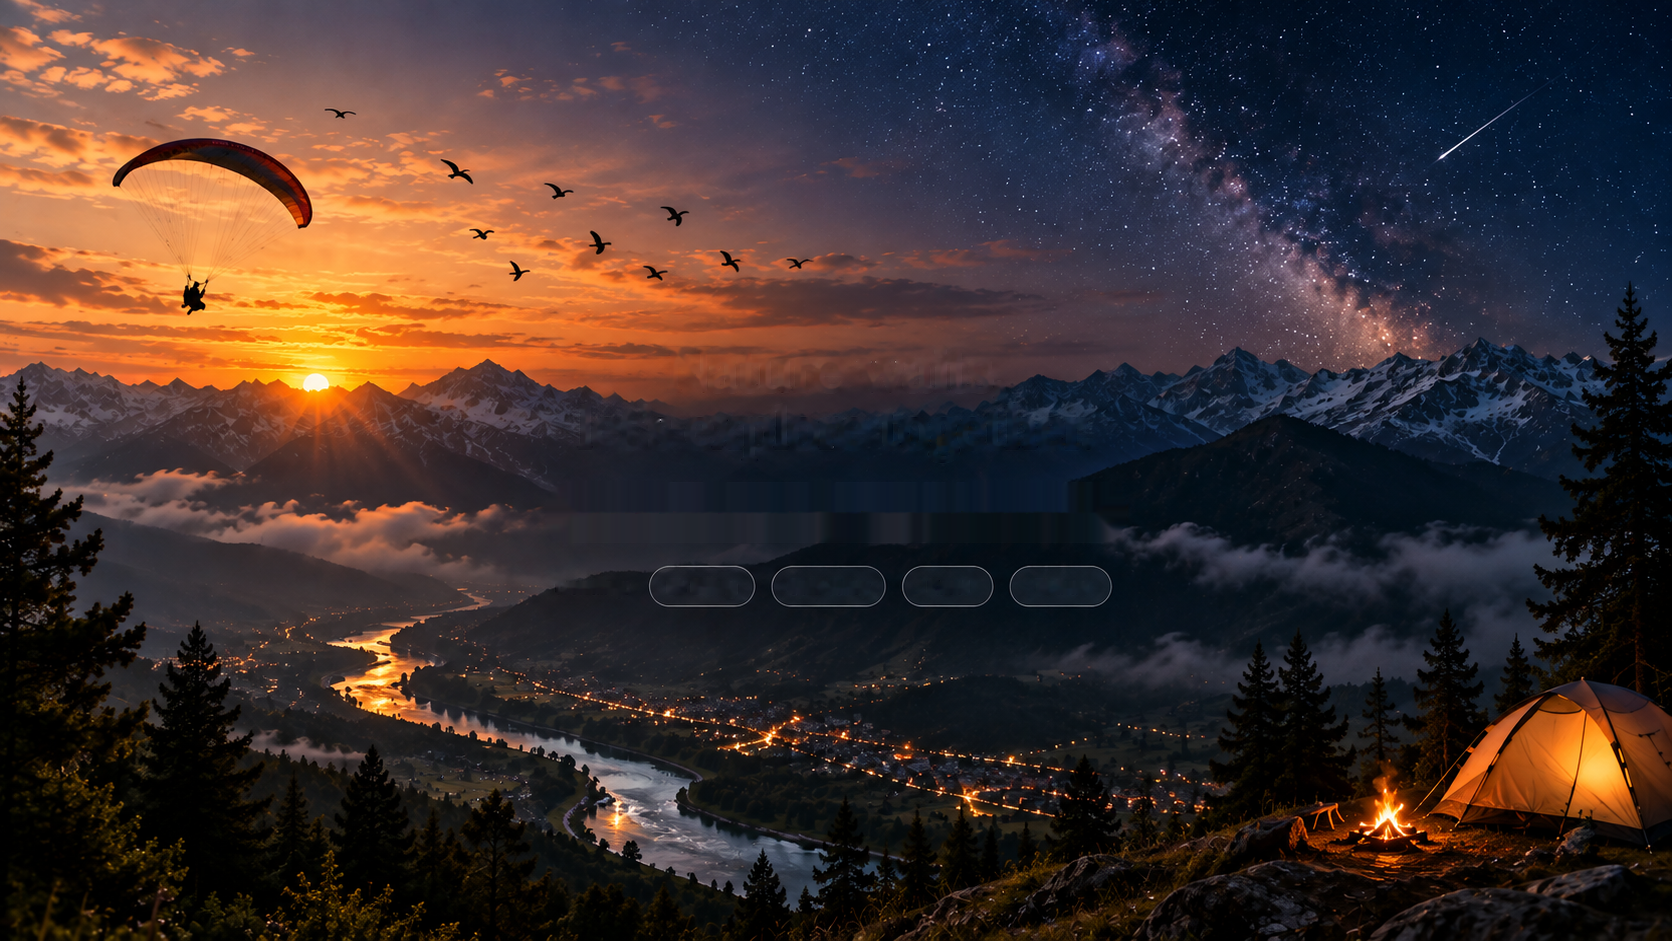
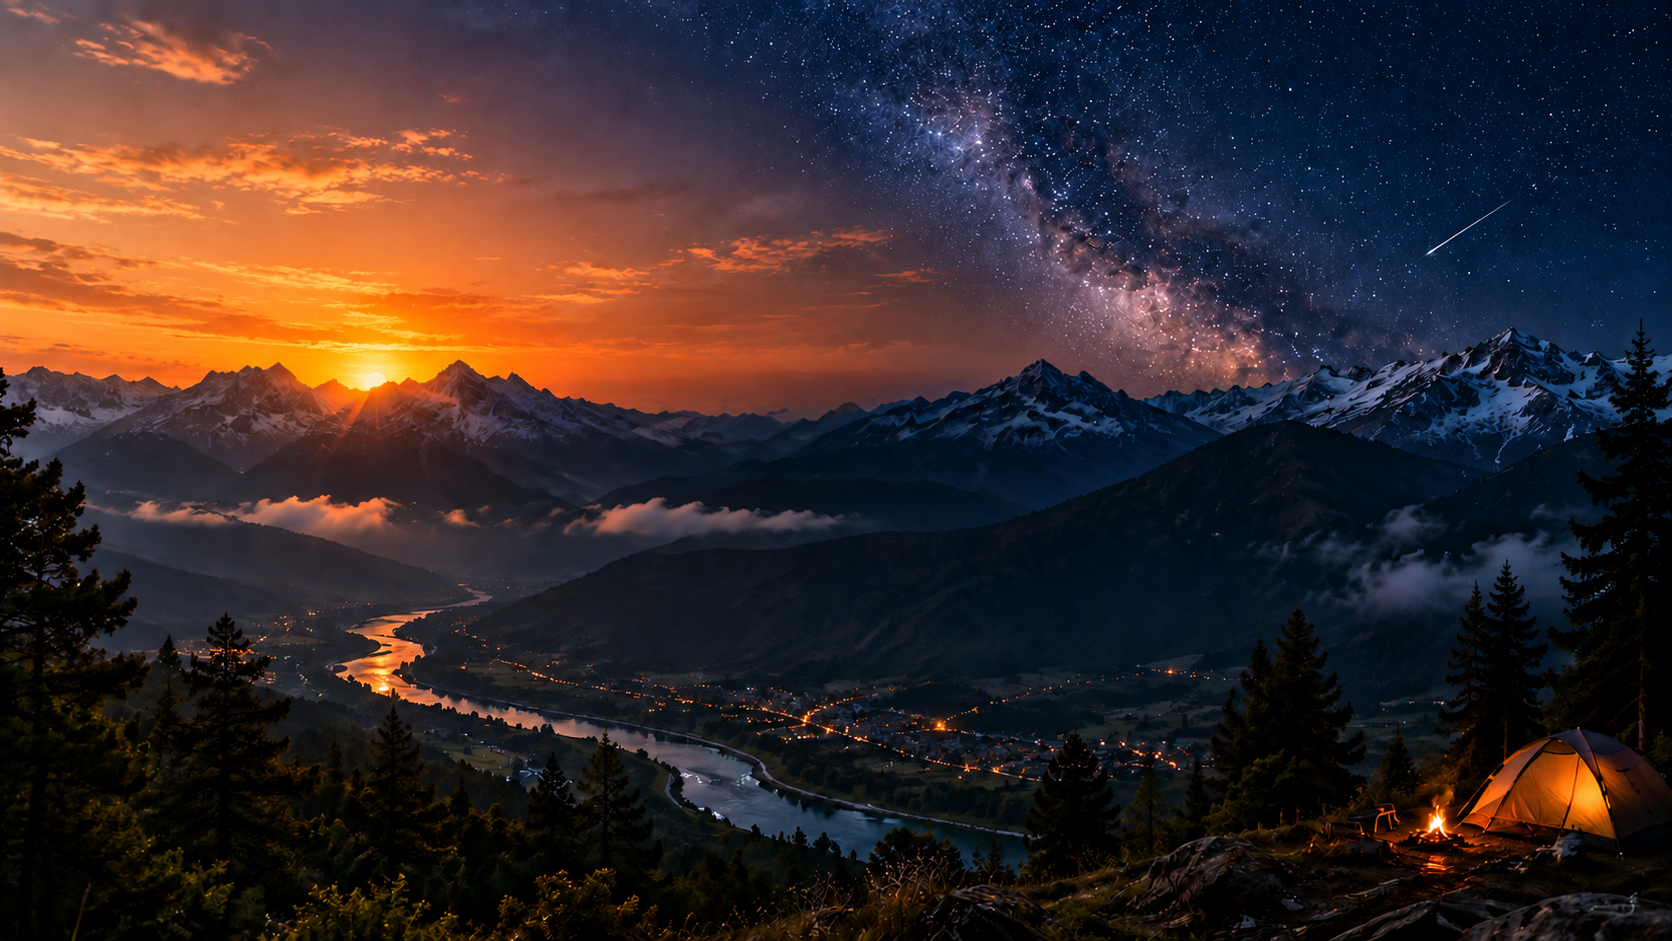
working travelling website code

diff --git a/src/pages/Home/Home.tsx b/src/pages/Home/Home.tsx
@@ -12,25 +12,41 @@ export function Home({ wishlist, onWishlist }: { wishlist: string[]; onWishlist:
   return <main>
       <section className="relative isolate min-h-[100svh] overflow-hidden bg-[#081a1d] text-[#f7f1df]">
         <style>{`
-          @keyframes heroBirdsFlight {
-            0% { transform: translate3d(-22vw, 6px, 0) scale(.72); opacity: 0; }
+          @keyframes heroBirdOne {
+            0% { transform: translate3d(-14vw, 8vh, 0) rotate(-4deg) scale(.72); opacity: 0; }
             8% { opacity: .92; }
-            48% { transform: translate3d(42vw, -28px, 0) scale(.88); opacity: .94; }
-            92% { opacity: .86; }
-            100% { transform: translate3d(118vw, 12px, 0) scale(1.02); opacity: 0; }
+            42% { transform: translate3d(38vw, -2vh, 0) rotate(2deg) scale(.86); }
+            72% { transform: translate3d(76vw, 8vh, 0) rotate(-2deg) scale(.95); }
+            92% { opacity: .9; }
+            100% { transform: translate3d(116vw, -5vh, 0) rotate(4deg) scale(1.05); opacity: 0; }
           }
-          @keyframes heroBirdsFlightReverse {
-            0% { transform: translate3d(118vw, 18px, 0) scale(.68) scaleX(-1); opacity: 0; }
-            10% { opacity: .8; }
-            50% { transform: translate3d(52vw, -32px, 0) scale(.82) scaleX(-1); opacity: .86; }
-            90% { opacity: .8; }
-            100% { transform: translate3d(-24vw, 4px, 0) scale(.96) scaleX(-1); opacity: 0; }
+          @keyframes heroBirdTwo {
+            0% { transform: translate3d(112vw, 20vh, 0) rotate(3deg) scale(.8) scaleX(-1); opacity: 0; }
+            10% { opacity: .82; }
+            45% { transform: translate3d(70vw, 8vh, 0) rotate(-2deg) scale(.9) scaleX(-1); }
+            76% { transform: translate3d(28vw, 16vh, 0) rotate(2deg) scale(.98) scaleX(-1); }
+            100% { transform: translate3d(-18vw, 3vh, 0) rotate(-3deg) scale(1.06) scaleX(-1); opacity: 0; }
           }
-          @keyframes heroParagliderTilt {
-            0%, 100% { transform: translate3d(-10px, 7px, 0) rotate(-3deg); }
-            25% { transform: translate3d(6px, -5px, 0) rotate(2deg); }
-            50% { transform: translate3d(16px, -11px, 0) rotate(4deg); }
-            75% { transform: translate3d(-3px, 1px, 0) rotate(-2deg); }
+          @keyframes heroBirdThree {
+            0% { transform: translate3d(-12vw, 42vh, 0) rotate(2deg) scale(.68); opacity: 0; }
+            9% { opacity: .75; }
+            50% { transform: translate3d(46vw, 28vh, 0) rotate(-3deg) scale(.82); }
+            100% { transform: translate3d(112vw, 38vh, 0) rotate(3deg) scale(.94); opacity: 0; }
+          }
+          @keyframes heroBirdFour {
+            0% { transform: translate3d(110vw, 48vh, 0) rotate(-2deg) scale(.7) scaleX(-1); opacity: 0; }
+            12% { opacity: .7; }
+            55% { transform: translate3d(55vw, 35vh, 0) rotate(2deg) scale(.84) scaleX(-1); }
+            100% { transform: translate3d(-16vw, 46vh, 0) rotate(-2deg) scale(.98) scaleX(-1); opacity: 0; }
+          }
+          @keyframes heroParagliderFlight {
+            0% { transform: translate3d(-18vw, 8vh, 0) rotate(-5deg); opacity: 0; }
+            7% { opacity: 1; }
+            24% { transform: translate3d(16vw, 2vh, 0) rotate(3deg); }
+            48% { transform: translate3d(52vw, 12vh, 0) rotate(-4deg); }
+            72% { transform: translate3d(82vw, 0vh, 0) rotate(4deg); }
+            93% { opacity: 1; }
+            100% { transform: translate3d(118vw, 10vh, 0) rotate(-3deg); opacity: 0; }
           }
           @keyframes heroDuskSweep {
             0%, 25% { opacity: 0; transform: translateX(110%); }
@@ -46,6 +62,13 @@ export function Home({ wishlist, onWishlist }: { wishlist: string[]; onWishlist:
             0%, 100% { opacity: .28; transform: scale(.75); }
             50% { opacity: 1; transform: scale(1.3); }
           }
+          @keyframes heroShootingStar {
+            0% { transform: translate3d(0, 0, 0) rotate(-28deg) scaleX(.15); opacity: 0; }
+            8% { opacity: 0; }
+            12% { opacity: .95; }
+            32% { transform: translate3d(-160px, 120px, 0) rotate(-28deg) scaleX(1); opacity: .9; }
+            38%, 100% { transform: translate3d(-230px, 170px, 0) rotate(-28deg) scaleX(1.05); opacity: 0; }
+          }
           @keyframes heroWind {
             0% { transform: translateX(-18%); opacity: 0; }
             20% { opacity: .36; }
@@ -56,14 +79,20 @@ export function Home({ wishlist, onWishlist }: { wishlist: string[]; onWishlist:
             0%, 100% { transform: translateY(0); opacity: .75; }
             50% { transform: translateY(6px); opacity: 1; }
           }
-          .hero-birds { position: absolute; z-index: 5; left: 0; top: 0; width: min(410px, 38vw); height: auto; pointer-events: none; filter: drop-shadow(0 3px 4px rgba(0,0,0,.22)); }
-          .hero-birds-one { animation: heroBirdsFlight 18s linear infinite; }
-          .hero-birds-two { top: 13%; animation: heroBirdsFlight 24s linear 5s infinite; opacity: .7; transform: scale(.72); }
-          .hero-birds-three { top: 4%; animation: heroBirdsFlightReverse 22s linear 3s infinite; opacity: .58; transform: scale(.62) scaleX(-1); }
-          .hero-paraglider { position: absolute; z-index: 6; left: 8%; top: 20%; width: clamp(115px, 13vw, 205px); height: auto; pointer-events: none; transform-origin: 50% 55%; animation: heroParagliderTilt 7s ease-in-out infinite; filter: drop-shadow(0 7px 7px rgba(0,0,0,.28)); }
+          .hero-bird { position: absolute; z-index: 5; width: 96px; height: 70px; overflow: hidden; pointer-events: none; background-image: url('/travel-birds-real.png'); background-repeat: no-repeat; background-size: 520px auto; background-color: transparent; filter: drop-shadow(0 3px 4px rgba(0,0,0,.25)); }
+          .hero-bird::after { content: ''; position: absolute; inset: 0; background: transparent; }
+          .hero-bird-one { top: 12%; left: 0; background-position: -14px -48px; animation: heroBirdOne 20s linear infinite; }
+          .hero-bird-two { top: 25%; left: 0; background-position: -185px -42px; animation: heroBirdTwo 24s linear 3s infinite; }
+          .hero-bird-three { top: 43%; left: 0; background-position: -335px -48px; animation: heroBirdThree 22s linear 7s infinite; }
+          .hero-bird-four { top: 54%; left: 0; background-position: -425px -55px; animation: heroBirdFour 26s linear 1s infinite; }
+          .hero-paraglider { position: absolute; z-index: 6; left: 0; top: 17%; width: clamp(115px, 13vw, 205px); height: auto; pointer-events: none; transform-origin: 50% 55%; animation: heroParagliderFlight 22s ease-in-out infinite; filter: drop-shadow(0 7px 7px rgba(0,0,0,.28)); }
           .hero-dusk-sweep { position: absolute; inset: 0; z-index: 3; pointer-events: none; background: linear-gradient(90deg, transparent 0%, rgba(8,22,47,.05) 34%, rgba(7,19,45,.28) 70%, rgba(3,10,27,.5) 100%); animation: heroDuskSweep 28s ease-in-out infinite; }
           .hero-stars { position: absolute; inset: 0; z-index: 4; pointer-events: none; animation: heroStarsGlow 24s ease-in-out infinite; }
           .hero-star { position: absolute; width: 3px; height: 3px; border-radius: 9999px; background: rgba(255,255,240,.95); box-shadow: 0 0 8px rgba(255,255,240,.75); animation: heroStarTwinkle 3.2s ease-in-out infinite; }
+          .hero-shooting-star { position: absolute; width: 90px; height: 2px; border-radius: 999px; background: linear-gradient(90deg, transparent, rgba(255,255,255,.95)); transform-origin: right center; opacity: 0; animation: heroShootingStar 6.5s linear infinite; }
+          .hero-shooting-one { top: 17%; right: 13%; animation-delay: 2s; }
+          .hero-shooting-two { top: 30%; right: 26%; animation-delay: 5s; animation-duration: 8s; }
+          .hero-shooting-three { top: 11%; right: 38%; animation-delay: 8s; animation-duration: 7.5s; }
           .hero-wind { position: absolute; z-index: 4; left: -20%; width: 46%; height: 24px; border-top: 1px solid rgba(245,249,238,.22); border-radius: 50%; filter: blur(.4px); animation: heroWind 9s linear infinite; pointer-events: none; }
           .hero-wind-one { top: 46%; } .hero-wind-two { top: 54%; transform: scale(.72); animation-delay: -3.5s; } .hero-wind-three { top: 62%; transform: scale(.54); animation-delay: -6.5s; }
           .hero-content-mask { position: absolute; z-index: 7; left: 50%; top: 31%; width: min(660px, 72vw); height: 34%; transform: translateX(-50%); border-radius: 42px; background: linear-gradient(180deg, rgba(9,19,29,.20), rgba(9,20,30,.42) 48%, rgba(9,19,29,.26)); backdrop-filter: blur(10px) saturate(.78); -webkit-backdrop-filter: blur(8px) saturate(.82); pointer-events: none; }
@@ -71,13 +100,14 @@ export function Home({ wishlist, onWishlist }: { wishlist: string[]; onWishlist:
           @media (prefers-reduced-motion: reduce) { .hero-birds, .hero-paraglider, .hero-dusk-sweep, .hero-stars, .hero-star, .hero-wind, .hero-scroll { animation: none !important; } .hero-stars { opacity: .5; } }
         `}</style>
 
-        <img src="/travel-with-trails-hero-clean2.png" alt="Mountain valley at sunset turning into a starry night" className="absolute inset-0 z-0 h-full w-full object-cover object-center" />
+        <img src="/travel-with-trails-hero.png" alt="Mountain valley at sunset turning into a starry night" className="absolute inset-0 z-0 h-full w-full object-cover object-center" />
         <div className="absolute inset-0 z-[1] bg-black/10" />
         <div className="hero-dusk-sweep" />
         <div className="hero-stars" aria-hidden="true">
           <i className="hero-star" style={{ left: '61%', top: '11%', animationDelay: '-.8s' }} /><i className="hero-star" style={{ left: '69%', top: '18%', animationDelay: '-2.1s' }} /><i className="hero-star" style={{ left: '78%', top: '10%', animationDelay: '-1.3s' }} /><i className="hero-star" style={{ left: '88%', top: '21%', animationDelay: '-3.2s' }} /><i className="hero-star" style={{ left: '94%', top: '13%', animationDelay: '-.4s' }} /><i className="hero-star" style={{ left: '57%', top: '28%', animationDelay: '-2.6s' }} /><i className="hero-star" style={{ left: '83%', top: '29%', animationDelay: '-1.7s' }} />
+          <i className="hero-shooting-star hero-shooting-one" /><i className="hero-shooting-star hero-shooting-two" /><i className="hero-shooting-star hero-shooting-three" />
         </div>
-        <img src="/travel-birds-real.png" alt="" aria-hidden="true" className="hero-birds hero-birds-one" /><img src="/travel-birds-real.png" alt="" aria-hidden="true" className="hero-birds hero-birds-two" /><img src="/travel-birds-real.png" alt="" aria-hidden="true" className="hero-birds hero-birds-three" />
+        <span className="hero-bird hero-bird-one" aria-hidden="true" /><span className="hero-bird hero-bird-two" aria-hidden="true" /><span className="hero-bird hero-bird-three" aria-hidden="true" /><span className="hero-bird hero-bird-four" aria-hidden="true" />
         <img src="/travel-paraglider-real.png" alt="" aria-hidden="true" className="hero-paraglider" />
         <span className="hero-wind hero-wind-one" aria-hidden="true" /><span className="hero-wind hero-wind-two" aria-hidden="true" /><span className="hero-wind hero-wind-three" aria-hidden="true" />
         <div className="hero-content-mask" aria-hidden="true" />

diff --git a/src/components/common.tsx b/src/components/common.tsx
@@ -45,7 +45,8 @@ export function Header() {
   const active = (href: string) => location === href || (href === '/trips' && location.startsWith('/trips')) || (href === '/bookings' && location.startsWith('/bookings'));
   return (
     <>
-      <header className={`${isHome ? 'absolute' : 'sticky'} inset-x-0 top-0 z-40 px-4 pt-4 sm:px-6 lg:px-8 lg:pt-6 ${isHome ? 'text-white' : 'text-foreground'}`}>
+      <header className={`fixed inset-x-0 top-0 z-40 px-4 pt-4 sm:px-6 lg:px-8 lg:pt-6 ${ isHome ? 'text-white' : 'text-foreground' }`}
+>
         <div className={`mx-auto flex h-[64px] max-w-[1240px] items-center justify-between gap-4 rounded-[22px] border px-3 shadow-lg backdrop-blur-xl sm:h-[70px] sm:px-4 ${isHome ? 'border-white/20 bg-black/15 shadow-black/20' : 'border-border/70 bg-card/90 shadow-black/5'}`}>
           <Link href="/" className="group flex min-w-0 items-center gap-2.5" data-testid="link-brand">
             <span className={`flex size-9 shrink-0 items-center justify-center rounded-xl border shadow-sm transition-transform group-hover:scale-105 sm:size-10 ${isHome ? 'border-white/25 bg-white/10 text-white' : 'border-primary/10 bg-primary text-primary-foreground'}`}>
